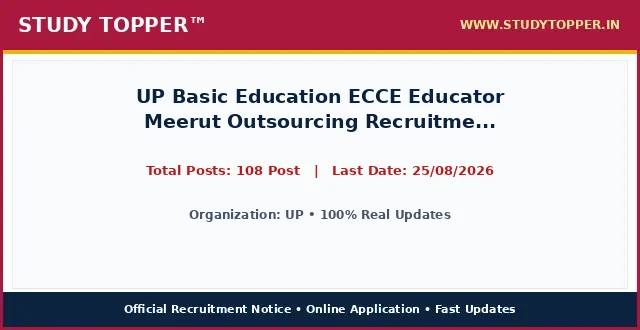
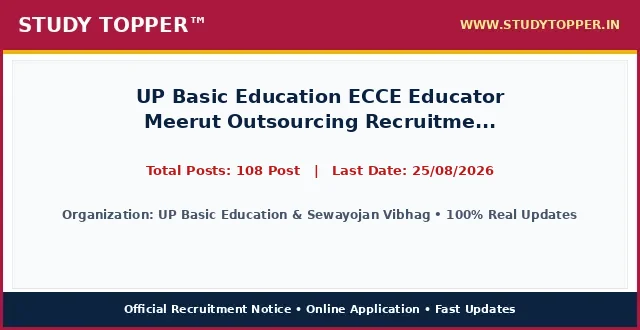
chore(lifecycle): daily auto-sort vacancies and update active dates

Changed region(s): [[0.0938, 0.6364, 0.9062, 0.6667]]

diff --git a/index.html b/index.html
@@ -1591,10 +1591,10 @@ ul.wp-block-latest-posts a:hover {
 <p class="gb-headline gb-headline-19f08da4 gb-headline-text" style="background-color:#0080ff !important; color:#ffffff !important; border-radius:5px !important; min-height:52px !important; height:52px !important; display:flex !important; align-items:center !important; justify-content:center !important; text-align:center !important; padding:4px 6px !important; margin:0 !important; box-sizing:border-box !important; overflow:hidden !important; width:100% !important;"><a href="/rcfl-management-trainee-august26/" rel="noreferrer noopener" style="color:#ffffff !important; text-decoration:none !important; font-weight:700 !important; font-size:13.5px !important; font-family:Arial,Helvetica,sans-serif !important; line-height:1.25 !important; display:flex !important; align-items:center !important; justify-content:center !important; text-align:center !important; width:100% !important; height:100% !important;" target="_blank">RCFL Management Trainee Recruitment 2026 Apply Online for 94 Post - <span class="agy-blinking-badge agy-urgent-blink">2 Days Left!</span></a></p>
 </div></div>
 <div class="gb-grid-column gb-grid-column-3b560729"><div class="gb-container gb-container-3b560729">
-<p class="gb-headline gb-headline-053dc0a0 gb-headline-text" style="background-color:#5f0000 !important; color:#ffffff !important; border-radius:5px !important; min-height:52px !important; height:52px !important; display:flex !important; align-items:center !important; justify-content:center !important; text-align:center !important; padding:4px 6px !important; margin:0 !important; box-sizing:border-box !important; overflow:hidden !important; width:100% !important;"><a href="/rvunl-june26/" rel="noreferrer noopener" style="color:#ffffff !important; text-decoration:none !important; font-weight:700 !important; font-size:13.5px !important; font-family:Arial,Helvetica,sans-serif !important; line-height:1.25 !important; display:flex !important; align-items:center !important; justify-content:center !important; text-align:center !important; width:100% !important; height:100% !important;" target="_blank">Rajasthan RVUNL for JE, Junior Accountant &amp; Junior Assistant/ Commercial Assistant-II Common Recruitment 2026 Apply Online for 2005 Post - <span class="agy-blinking-badge agy-urgent-blink">3 Days Left!</span></a></p>
+<p class="gb-headline gb-headline-053dc0a0 gb-headline-text" style="background-color:#5f0000 !important; color:#ffffff !important; border-radius:5px !important; min-height:52px !important; height:52px !important; display:flex !important; align-items:center !important; justify-content:center !important; text-align:center !important; padding:4px 6px !important; margin:0 !important; box-sizing:border-box !important; overflow:hidden !important; width:100% !important;"><a href="/up-meerut-ecce-educator-august26/" rel="noreferrer noopener" style="color:#ffffff !important; text-decoration:none !important; font-weight:700 !important; font-size:13.5px !important; font-family:Arial,Helvetica,sans-serif !important; line-height:1.25 !important; display:flex !important; align-items:center !important; justify-content:center !important; text-align:center !important; width:100% !important; height:100% !important;" target="_blank">UP Basic Education ECCE Educator Meerut Outsourcing Recruitment 2026 Apply Online For 108 Post - <span class="agy-blinking-badge agy-urgent-blink">3 Days Left!</span></a></p>
 </div></div>
 <div class="gb-grid-column gb-grid-column-659c2f86"><div class="gb-container gb-container-659c2f86">
-<p class="gb-headline gb-headline-d128e870 gb-headline-text" style="background-color:#077822 !important; color:#ffffff !important; border-radius:5px !important; min-height:52px !important; height:52px !important; display:flex !important; align-items:center !important; justify-content:center !important; text-align:center !important; padding:4px 6px !important; margin:0 !important; box-sizing:border-box !important; overflow:hidden !important; width:100% !important;"><a href="/rrvunl-je-junior-assistant-2026/" rel="noreferrer noopener" style="color:#ffffff !important; text-decoration:none !important; font-weight:700 !important; font-size:13.5px !important; font-family:Arial,Helvetica,sans-serif !important; line-height:1.25 !important; display:flex !important; align-items:center !important; justify-content:center !important; text-align:center !important; width:100% !important; height:100% !important;" target="_blank">RRVUNL JE, Junior Assistant Recruitment 2026 - <span class="agy-blinking-badge agy-urgent-blink">3 Days Left!</span></a></p>
+<p class="gb-headline gb-headline-d128e870 gb-headline-text" style="background-color:#077822 !important; color:#ffffff !important; border-radius:5px !important; min-height:52px !important; height:52px !important; display:flex !important; align-items:center !important; justify-content:center !important; text-align:center !important; padding:4px 6px !important; margin:0 !important; box-sizing:border-box !important; overflow:hidden !important; width:100% !important;"><a href="/rvunl-june26/" rel="noreferrer noopener" style="color:#ffffff !important; text-decoration:none !important; font-weight:700 !important; font-size:13.5px !important; font-family:Arial,Helvetica,sans-serif !important; line-height:1.25 !important; display:flex !important; align-items:center !important; justify-content:center !important; text-align:center !important; width:100% !important; height:100% !important;" target="_blank">Rajasthan RVUNL for JE, Junior Accountant &amp; Junior Assistant/ Commercial Assistant-II Common Recruitment 2026 Apply Online for 2005 Post - <span class="agy-blinking-badge agy-urgent-blink">3 Days Left!</span></a></p>
 </div></div>
 </div>
 </div>
@@ -1615,7 +1615,7 @@ ul.wp-block-latest-posts a:hover {
 </div></div></div>
 <div class="gb-grid-column gb-grid-column-c7488d9a"><div class="gb-container gb-container-c7488d9a"><div class="gb-inside-container">
 <p class="gb-headline gb-headline-5badebdf gb-headline-text" style="background-color:#ab183d !important; color:#ffffff !important; text-align:center; font-weight:700; padding:6px 0;">Latest Jobs</p>
-<ul class="wp-block-latest-posts__list 6colm_box wp-block-latest-posts"><li><a class="wp-block-latest-posts__post-title" href="/up-sewayojan-vibhag-mts-august26/">UP Sewayojan Vibhag Recruitment 2026 Multi Tasking Staff MTS Apply Online for 45 Post - <span class="agy-blinking-badge agy-urgent-blink">Last Date Today!</span></a></li><li><a class="wp-block-latest-posts__post-title" href="/mpesb-group-2-sub-group-4-patwari-2026/">MPESB Group-2 Sub Group-4 Patwari Recruitment 2026 - <span class="agy-blinking-badge agy-urgent-blink">1 Days Left!</span></a></li><li><a class="wp-block-latest-posts__post-title" href="/mpesb-group2-subgroup-4-aug26/">MPESB MP Group 2 Sub Group 4 Patwari and Other Post Combined Recruitment Test – 2026 Apply Online 2106 Post - <span class="agy-blinking-badge agy-urgent-blink">1 Days Left!</span></a></li><li><a class="wp-block-latest-posts__post-title" href="/atal-awasiya-lucknow-aug2026/">Uttar Pradesh UP Atal Awasiya Vidyalaya Lucknow Outsourcing Recruitment Application Form 2026 - <span class="agy-blinking-badge agy-urgent-blink">2 Days Left!</span></a></li><li><a class="wp-block-latest-posts__post-title" href="/upsssc-paramedical-fsl-15-exam-2026/">UPSSSC Forensic Science Laboratory Main Examination 2026 Apply Online for 208 Post - <span class="agy-blinking-badge agy-urgent-blink">2 Days Left!</span></a></li><li><a class="wp-block-latest-posts__post-title" href="/rcfl-management-trainee-august26/">RCFL Management Trainee Recruitment 2026 Apply Online for 94 Post - <span class="agy-blinking-badge agy-urgent-blink">2 Days Left!</span></a></li><li><a class="wp-block-latest-posts__post-title" href="/rvunl-june26/">Rajasthan RVUNL for JE, Junior Accountant &amp; Junior Assistant/ Commercial Assistant-II Common Recruitment 2026 Apply Online for 2005 Post - <span class="agy-blinking-badge agy-urgent-blink">3 Days Left!</span></a></li><li><a class="wp-block-latest-posts__post-title" href="/rrvunl-je-junior-assistant-2026/">RRVUNL JE, Junior Assistant Recruitment 2026 - <span class="agy-blinking-badge agy-urgent-blink">3 Days Left!</span></a></li><li><a class="wp-block-latest-posts__post-title" href="/up-meerut-ecce-educator-august26/">UP Basic Education ECCE Educator Meerut Outsourcing Recruitment 2026 Apply Online For 108 Post - <span class="agy-blinking-badge agy-urgent-blink">3 Days Left!</span></a></li><li><a class="wp-block-latest-posts__post-title" href="/up-bijnor-ecce-educator-july26/">Uttar Pradesh UP Basic Education Bijnor ECCE Educator Outsourcing Recruitment 2026 Apply Online For 159 Post - <span class="agy-blinking-badge agy-extended-blink">Date Extended!</span></a></li><li><a class="wp-block-latest-posts__post-title" href="/upsrtc-bus-conductor-august26/">UPSRTC उत्तर प्रदेश राज्य सड़क परिवहन निगम Bus Conductor Gonda, Bahraich, Balrampur Outsourcing Recruitment Online Form 2026</a></li><li><a class="wp-block-latest-posts__post-title" href="/hphc-various-post-august26/">Himachal Pradesh HP High Court Various Post Recruitment 2026 Apply Online for 388 Post</a></li></ul>
+<ul class="wp-block-latest-posts__list 6colm_box wp-block-latest-posts"><li><a class="wp-block-latest-posts__post-title" href="/up-sewayojan-vibhag-mts-august26/">UP Sewayojan Vibhag Recruitment 2026 Multi Tasking Staff MTS Apply Online for 45 Post - <span class="agy-blinking-badge agy-urgent-blink">Last Date Today!</span></a></li><li><a class="wp-block-latest-posts__post-title" href="/mpesb-group-2-sub-group-4-patwari-2026/">MPESB Group-2 Sub Group-4 Patwari Recruitment 2026 - <span class="agy-blinking-badge agy-urgent-blink">1 Days Left!</span></a></li><li><a class="wp-block-latest-posts__post-title" href="/mpesb-group2-subgroup-4-aug26/">MPESB MP Group 2 Sub Group 4 Patwari and Other Post Combined Recruitment Test – 2026 Apply Online 2106 Post - <span class="agy-blinking-badge agy-urgent-blink">1 Days Left!</span></a></li><li><a class="wp-block-latest-posts__post-title" href="/atal-awasiya-lucknow-aug2026/">Uttar Pradesh UP Atal Awasiya Vidyalaya Lucknow Outsourcing Recruitment Application Form 2026 - <span class="agy-blinking-badge agy-urgent-blink">2 Days Left!</span></a></li><li><a class="wp-block-latest-posts__post-title" href="/upsssc-paramedical-fsl-15-exam-2026/">UPSSSC Forensic Science Laboratory Main Examination 2026 Apply Online for 208 Post - <span class="agy-blinking-badge agy-urgent-blink">2 Days Left!</span></a></li><li><a class="wp-block-latest-posts__post-title" href="/rcfl-management-trainee-august26/">RCFL Management Trainee Recruitment 2026 Apply Online for 94 Post - <span class="agy-blinking-badge agy-urgent-blink">2 Days Left!</span></a></li><li><a class="wp-block-latest-posts__post-title" href="/up-meerut-ecce-educator-august26/">UP Basic Education ECCE Educator Meerut Outsourcing Recruitment 2026 Apply Online For 108 Post - <span class="agy-blinking-badge agy-urgent-blink">3 Days Left!</span></a></li><li><a class="wp-block-latest-posts__post-title" href="/rvunl-june26/">Rajasthan RVUNL for JE, Junior Accountant &amp; Junior Assistant/ Commercial Assistant-II Common Recruitment 2026 Apply Online for 2005 Post - <span class="agy-blinking-badge agy-urgent-blink">3 Days Left!</span></a></li><li><a class="wp-block-latest-posts__post-title" href="/rrvunl-je-junior-assistant-2026/">RRVUNL JE, Junior Assistant Recruitment 2026 - <span class="agy-blinking-badge agy-urgent-blink">3 Days Left!</span></a></li><li><a class="wp-block-latest-posts__post-title" href="/up-bijnor-ecce-educator-july26/">Uttar Pradesh UP Basic Education Bijnor ECCE Educator Outsourcing Recruitment 2026 Apply Online For 159 Post - <span class="agy-blinking-badge agy-extended-blink">Date Extended!</span></a></li><li><a class="wp-block-latest-posts__post-title" href="/upsrtc-bus-conductor-august26/">UPSRTC उत्तर प्रदेश राज्य सड़क परिवहन निगम Bus Conductor Gonda, Bahraich, Balrampur Outsourcing Recruitment Online Form 2026</a></li><li><a class="wp-block-latest-posts__post-title" href="/hphc-various-post-august26/">Himachal Pradesh HP High Court Various Post Recruitment 2026 Apply Online for 388 Post</a></li></ul>
 <div class="wp-block-buttons is-content-justification-right is-layout-flex wp-container-core-buttons-is-layout-89b4c9e9 wp-block-buttons-is-layout-flex">
 <div class="wp-block-button"><a class="wp-block-button__link has-base-color has-accent-2-background-color has-text-color has-background has-link-color wp-element-button" href="/latest-jobs/" rel="noreferrer noopener" target="_blank"><strong>View More</strong></a></div>
 </div>

diff --git a/pages/index.html b/pages/index.html
@@ -1591,10 +1591,10 @@ ul.wp-block-latest-posts a:hover {
 <p class="gb-headline gb-headline-19f08da4 gb-headline-text" style="background-color:#0080ff !important; color:#ffffff !important; border-radius:5px !important; min-height:52px !important; height:52px !important; display:flex !important; align-items:center !important; justify-content:center !important; text-align:center !important; padding:4px 6px !important; margin:0 !important; box-sizing:border-box !important; overflow:hidden !important; width:100% !important;"><a href="/rcfl-management-trainee-august26/" rel="noreferrer noopener" style="color:#ffffff !important; text-decoration:none !important; font-weight:700 !important; font-size:13.5px !important; font-family:Arial,Helvetica,sans-serif !important; line-height:1.25 !important; display:flex !important; align-items:center !important; justify-content:center !important; text-align:center !important; width:100% !important; height:100% !important;" target="_blank">RCFL Management Trainee Recruitment 2026 Apply Online for 94 Post - <span class="agy-blinking-badge agy-urgent-blink">2 Days Left!</span></a></p>
 </div></div>
 <div class="gb-grid-column gb-grid-column-3b560729"><div class="gb-container gb-container-3b560729">
-<p class="gb-headline gb-headline-053dc0a0 gb-headline-text" style="background-color:#5f0000 !important; color:#ffffff !important; border-radius:5px !important; min-height:52px !important; height:52px !important; display:flex !important; align-items:center !important; justify-content:center !important; text-align:center !important; padding:4px 6px !important; margin:0 !important; box-sizing:border-box !important; overflow:hidden !important; width:100% !important;"><a href="/rvunl-june26/" rel="noreferrer noopener" style="color:#ffffff !important; text-decoration:none !important; font-weight:700 !important; font-size:13.5px !important; font-family:Arial,Helvetica,sans-serif !important; line-height:1.25 !important; display:flex !important; align-items:center !important; justify-content:center !important; text-align:center !important; width:100% !important; height:100% !important;" target="_blank">Rajasthan RVUNL for JE, Junior Accountant &amp; Junior Assistant/ Commercial Assistant-II Common Recruitment 2026 Apply Online for 2005 Post - <span class="agy-blinking-badge agy-urgent-blink">3 Days Left!</span></a></p>
+<p class="gb-headline gb-headline-053dc0a0 gb-headline-text" style="background-color:#5f0000 !important; color:#ffffff !important; border-radius:5px !important; min-height:52px !important; height:52px !important; display:flex !important; align-items:center !important; justify-content:center !important; text-align:center !important; padding:4px 6px !important; margin:0 !important; box-sizing:border-box !important; overflow:hidden !important; width:100% !important;"><a href="/up-meerut-ecce-educator-august26/" rel="noreferrer noopener" style="color:#ffffff !important; text-decoration:none !important; font-weight:700 !important; font-size:13.5px !important; font-family:Arial,Helvetica,sans-serif !important; line-height:1.25 !important; display:flex !important; align-items:center !important; justify-content:center !important; text-align:center !important; width:100% !important; height:100% !important;" target="_blank">UP Basic Education ECCE Educator Meerut Outsourcing Recruitment 2026 Apply Online For 108 Post - <span class="agy-blinking-badge agy-urgent-blink">3 Days Left!</span></a></p>
 </div></div>
 <div class="gb-grid-column gb-grid-column-659c2f86"><div class="gb-container gb-container-659c2f86">
-<p class="gb-headline gb-headline-d128e870 gb-headline-text" style="background-color:#077822 !important; color:#ffffff !important; border-radius:5px !important; min-height:52px !important; height:52px !important; display:flex !important; align-items:center !important; justify-content:center !important; text-align:center !important; padding:4px 6px !important; margin:0 !important; box-sizing:border-box !important; overflow:hidden !important; width:100% !important;"><a href="/rrvunl-je-junior-assistant-2026/" rel="noreferrer noopener" style="color:#ffffff !important; text-decoration:none !important; font-weight:700 !important; font-size:13.5px !important; font-family:Arial,Helvetica,sans-serif !important; line-height:1.25 !important; display:flex !important; align-items:center !important; justify-content:center !important; text-align:center !important; width:100% !important; height:100% !important;" target="_blank">RRVUNL JE, Junior Assistant Recruitment 2026 - <span class="agy-blinking-badge agy-urgent-blink">3 Days Left!</span></a></p>
+<p class="gb-headline gb-headline-d128e870 gb-headline-text" style="background-color:#077822 !important; color:#ffffff !important; border-radius:5px !important; min-height:52px !important; height:52px !important; display:flex !important; align-items:center !important; justify-content:center !important; text-align:center !important; padding:4px 6px !important; margin:0 !important; box-sizing:border-box !important; overflow:hidden !important; width:100% !important;"><a href="/rvunl-june26/" rel="noreferrer noopener" style="color:#ffffff !important; text-decoration:none !important; font-weight:700 !important; font-size:13.5px !important; font-family:Arial,Helvetica,sans-serif !important; line-height:1.25 !important; display:flex !important; align-items:center !important; justify-content:center !important; text-align:center !important; width:100% !important; height:100% !important;" target="_blank">Rajasthan RVUNL for JE, Junior Accountant &amp; Junior Assistant/ Commercial Assistant-II Common Recruitment 2026 Apply Online for 2005 Post - <span class="agy-blinking-badge agy-urgent-blink">3 Days Left!</span></a></p>
 </div></div>
 </div>
 </div>
@@ -1615,7 +1615,7 @@ ul.wp-block-latest-posts a:hover {
 </div></div></div>
 <div class="gb-grid-column gb-grid-column-c7488d9a"><div class="gb-container gb-container-c7488d9a"><div class="gb-inside-container">
 <p class="gb-headline gb-headline-5badebdf gb-headline-text" style="background-color:#ab183d !important; color:#ffffff !important; text-align:center; font-weight:700; padding:6px 0;">Latest Jobs</p>
-<ul class="wp-block-latest-posts__list 6colm_box wp-block-latest-posts"><li><a class="wp-block-latest-posts__post-title" href="/up-sewayojan-vibhag-mts-august26/">UP Sewayojan Vibhag Recruitment 2026 Multi Tasking Staff MTS Apply Online for 45 Post - <span class="agy-blinking-badge agy-urgent-blink">Last Date Today!</span></a></li><li><a class="wp-block-latest-posts__post-title" href="/mpesb-group-2-sub-group-4-patwari-2026/">MPESB Group-2 Sub Group-4 Patwari Recruitment 2026 - <span class="agy-blinking-badge agy-urgent-blink">1 Days Left!</span></a></li><li><a class="wp-block-latest-posts__post-title" href="/mpesb-group2-subgroup-4-aug26/">MPESB MP Group 2 Sub Group 4 Patwari and Other Post Combined Recruitment Test – 2026 Apply Online 2106 Post - <span class="agy-blinking-badge agy-urgent-blink">1 Days Left!</span></a></li><li><a class="wp-block-latest-posts__post-title" href="/atal-awasiya-lucknow-aug2026/">Uttar Pradesh UP Atal Awasiya Vidyalaya Lucknow Outsourcing Recruitment Application Form 2026 - <span class="agy-blinking-badge agy-urgent-blink">2 Days Left!</span></a></li><li><a class="wp-block-latest-posts__post-title" href="/upsssc-paramedical-fsl-15-exam-2026/">UPSSSC Forensic Science Laboratory Main Examination 2026 Apply Online for 208 Post - <span class="agy-blinking-badge agy-urgent-blink">2 Days Left!</span></a></li><li><a class="wp-block-latest-posts__post-title" href="/rcfl-management-trainee-august26/">RCFL Management Trainee Recruitment 2026 Apply Online for 94 Post - <span class="agy-blinking-badge agy-urgent-blink">2 Days Left!</span></a></li><li><a class="wp-block-latest-posts__post-title" href="/rvunl-june26/">Rajasthan RVUNL for JE, Junior Accountant &amp; Junior Assistant/ Commercial Assistant-II Common Recruitment 2026 Apply Online for 2005 Post - <span class="agy-blinking-badge agy-urgent-blink">3 Days Left!</span></a></li><li><a class="wp-block-latest-posts__post-title" href="/rrvunl-je-junior-assistant-2026/">RRVUNL JE, Junior Assistant Recruitment 2026 - <span class="agy-blinking-badge agy-urgent-blink">3 Days Left!</span></a></li><li><a class="wp-block-latest-posts__post-title" href="/up-meerut-ecce-educator-august26/">UP Basic Education ECCE Educator Meerut Outsourcing Recruitment 2026 Apply Online For 108 Post - <span class="agy-blinking-badge agy-urgent-blink">3 Days Left!</span></a></li><li><a class="wp-block-latest-posts__post-title" href="/up-bijnor-ecce-educator-july26/">Uttar Pradesh UP Basic Education Bijnor ECCE Educator Outsourcing Recruitment 2026 Apply Online For 159 Post - <span class="agy-blinking-badge agy-extended-blink">Date Extended!</span></a></li><li><a class="wp-block-latest-posts__post-title" href="/upsrtc-bus-conductor-august26/">UPSRTC उत्तर प्रदेश राज्य सड़क परिवहन निगम Bus Conductor Gonda, Bahraich, Balrampur Outsourcing Recruitment Online Form 2026</a></li><li><a class="wp-block-latest-posts__post-title" href="/hphc-various-post-august26/">Himachal Pradesh HP High Court Various Post Recruitment 2026 Apply Online for 388 Post</a></li></ul>
+<ul class="wp-block-latest-posts__list 6colm_box wp-block-latest-posts"><li><a class="wp-block-latest-posts__post-title" href="/up-sewayojan-vibhag-mts-august26/">UP Sewayojan Vibhag Recruitment 2026 Multi Tasking Staff MTS Apply Online for 45 Post - <span class="agy-blinking-badge agy-urgent-blink">Last Date Today!</span></a></li><li><a class="wp-block-latest-posts__post-title" href="/mpesb-group-2-sub-group-4-patwari-2026/">MPESB Group-2 Sub Group-4 Patwari Recruitment 2026 - <span class="agy-blinking-badge agy-urgent-blink">1 Days Left!</span></a></li><li><a class="wp-block-latest-posts__post-title" href="/mpesb-group2-subgroup-4-aug26/">MPESB MP Group 2 Sub Group 4 Patwari and Other Post Combined Recruitment Test – 2026 Apply Online 2106 Post - <span class="agy-blinking-badge agy-urgent-blink">1 Days Left!</span></a></li><li><a class="wp-block-latest-posts__post-title" href="/atal-awasiya-lucknow-aug2026/">Uttar Pradesh UP Atal Awasiya Vidyalaya Lucknow Outsourcing Recruitment Application Form 2026 - <span class="agy-blinking-badge agy-urgent-blink">2 Days Left!</span></a></li><li><a class="wp-block-latest-posts__post-title" href="/upsssc-paramedical-fsl-15-exam-2026/">UPSSSC Forensic Science Laboratory Main Examination 2026 Apply Online for 208 Post - <span class="agy-blinking-badge agy-urgent-blink">2 Days Left!</span></a></li><li><a class="wp-block-latest-posts__post-title" href="/rcfl-management-trainee-august26/">RCFL Management Trainee Recruitment 2026 Apply Online for 94 Post - <span class="agy-blinking-badge agy-urgent-blink">2 Days Left!</span></a></li><li><a class="wp-block-latest-posts__post-title" href="/up-meerut-ecce-educator-august26/">UP Basic Education ECCE Educator Meerut Outsourcing Recruitment 2026 Apply Online For 108 Post - <span class="agy-blinking-badge agy-urgent-blink">3 Days Left!</span></a></li><li><a class="wp-block-latest-posts__post-title" href="/rvunl-june26/">Rajasthan RVUNL for JE, Junior Accountant &amp; Junior Assistant/ Commercial Assistant-II Common Recruitment 2026 Apply Online for 2005 Post - <span class="agy-blinking-badge agy-urgent-blink">3 Days Left!</span></a></li><li><a class="wp-block-latest-posts__post-title" href="/rrvunl-je-junior-assistant-2026/">RRVUNL JE, Junior Assistant Recruitment 2026 - <span class="agy-blinking-badge agy-urgent-blink">3 Days Left!</span></a></li><li><a class="wp-block-latest-posts__post-title" href="/up-bijnor-ecce-educator-july26/">Uttar Pradesh UP Basic Education Bijnor ECCE Educator Outsourcing Recruitment 2026 Apply Online For 159 Post - <span class="agy-blinking-badge agy-extended-blink">Date Extended!</span></a></li><li><a class="wp-block-latest-posts__post-title" href="/upsrtc-bus-conductor-august26/">UPSRTC उत्तर प्रदेश राज्य सड़क परिवहन निगम Bus Conductor Gonda, Bahraich, Balrampur Outsourcing Recruitment Online Form 2026</a></li><li><a class="wp-block-latest-posts__post-title" href="/hphc-various-post-august26/">Himachal Pradesh HP High Court Various Post Recruitment 2026 Apply Online for 388 Post</a></li></ul>
 <div class="wp-block-buttons is-content-justification-right is-layout-flex wp-container-core-buttons-is-layout-89b4c9e9 wp-block-buttons-is-layout-flex">
 <div class="wp-block-button"><a class="wp-block-button__link has-base-color has-accent-2-background-color has-text-color has-background has-link-color wp-element-button" href="/latest-jobs/" rel="noreferrer noopener" target="_blank"><strong>View More</strong></a></div>
 </div>

diff --git a/original_index.html b/original_index.html
@@ -1053,10 +1053,10 @@ ul.wp-block-latest-posts a:hover {
 <p class="gb-headline gb-headline-19f08da4 gb-headline-text"><a href="/rcfl-management-trainee-august26/" rel="noreferrer noopener" target="_blank">RCFL Management Trainee Recruitment 2026 Apply Online for 94 Post - <span class="agy-blinking-badge agy-urgent-blink">2 Days Left!</span></a></p>
 </div></div>
 <div class="gb-grid-column gb-grid-column-3b560729"><div class="gb-container gb-container-3b560729">
-<p class="gb-headline gb-headline-053dc0a0 gb-headline-text"><a href="/rvunl-june26/" rel="noreferrer noopener" target="_blank">Rajasthan RVUNL for JE, Junior Accountant &amp; Junior Assistant/ Commercial Assistant-II Common Recruitment 2026 Apply Online for 2005 Post - <span class="agy-blinking-badge agy-urgent-blink">3 Days Left!</span></a></p>
+<p class="gb-headline gb-headline-053dc0a0 gb-headline-text"><a href="/up-meerut-ecce-educator-august26/" rel="noreferrer noopener" target="_blank">UP Basic Education ECCE Educator Meerut Outsourcing Recruitment 2026 Apply Online For 108 Post - <span class="agy-blinking-badge agy-urgent-blink">3 Days Left!</span></a></p>
 </div></div>
 <div class="gb-grid-column gb-grid-column-659c2f86"><div class="gb-container gb-container-659c2f86">
-<p class="gb-headline gb-headline-d128e870 gb-headline-text"><a href="/rrvunl-je-junior-assistant-2026/" rel="noreferrer noopener" target="_blank">RRVUNL JE, Junior Assistant Recruitment 2026 - <span class="agy-blinking-badge agy-urgent-blink">3 Days Left!</span></a></p>
+<p class="gb-headline gb-headline-d128e870 gb-headline-text"><a href="/rvunl-june26/" rel="noreferrer noopener" target="_blank">Rajasthan RVUNL for JE, Junior Accountant &amp; Junior Assistant/ Commercial Assistant-II Common Recruitment 2026 Apply Online for 2005 Post - <span class="agy-blinking-badge agy-urgent-blink">3 Days Left!</span></a></p>
 </div></div>
 </div>
 <!-- SarkariResult -->
@@ -1078,7 +1078,7 @@ ul.wp-block-latest-posts a:hover {
 </div></div></div>
 <div class="gb-grid-column gb-grid-column-c7488d9a"><div class="gb-container gb-container-c7488d9a"><div class="gb-inside-container">
 <p class="gb-headline gb-headline-5badebdf gb-headline-text">Latest Jobs</p>
-<ul class="wp-block-latest-posts__list 6colm_box wp-block-latest-posts"><li><a class="wp-block-latest-posts__post-title" href="/up-sewayojan-vibhag-mts-august26/">UP Sewayojan Vibhag Recruitment 2026 Multi Tasking Staff MTS Apply Online for 45 Post - <span class="agy-blinking-badge agy-urgent-blink">Last Date Today!</span></a></li><li><a class="wp-block-latest-posts__post-title" href="/mpesb-group-2-sub-group-4-patwari-2026/">MPESB Group-2 Sub Group-4 Patwari Recruitment 2026 - <span class="agy-blinking-badge agy-urgent-blink">1 Days Left!</span></a></li><li><a class="wp-block-latest-posts__post-title" href="/mpesb-group2-subgroup-4-aug26/">MPESB MP Group 2 Sub Group 4 Patwari and Other Post Combined Recruitment Test – 2026 Apply Online 2106 Post - <span class="agy-blinking-badge agy-urgent-blink">1 Days Left!</span></a></li><li><a class="wp-block-latest-posts__post-title" href="/atal-awasiya-lucknow-aug2026/">Uttar Pradesh UP Atal Awasiya Vidyalaya Lucknow Outsourcing Recruitment Application Form 2026 - <span class="agy-blinking-badge agy-urgent-blink">2 Days Left!</span></a></li><li><a class="wp-block-latest-posts__post-title" href="/upsssc-paramedical-fsl-15-exam-2026/">UPSSSC Forensic Science Laboratory Main Examination 2026 Apply Online for 208 Post - <span class="agy-blinking-badge agy-urgent-blink">2 Days Left!</span></a></li><li><a class="wp-block-latest-posts__post-title" href="/rcfl-management-trainee-august26/">RCFL Management Trainee Recruitment 2026 Apply Online for 94 Post - <span class="agy-blinking-badge agy-urgent-blink">2 Days Left!</span></a></li><li><a class="wp-block-latest-posts__post-title" href="/rvunl-june26/">Rajasthan RVUNL for JE, Junior Accountant &amp; Junior Assistant/ Commercial Assistant-II Common Recruitment 2026 Apply Online for 2005 Post - <span class="agy-blinking-badge agy-urgent-blink">3 Days Left!</span></a></li><li><a class="wp-block-latest-posts__post-title" href="/rrvunl-je-junior-assistant-2026/">RRVUNL JE, Junior Assistant Recruitment 2026 - <span class="agy-blinking-badge agy-urgent-blink">3 Days Left!</span></a></li><li><a class="wp-block-latest-posts__post-title" href="/up-meerut-ecce-educator-august26/">UP Basic Education ECCE Educator Meerut Outsourcing Recruitment 2026 Apply Online For 108 Post - <span class="agy-blinking-badge agy-urgent-blink">3 Days Left!</span></a></li><li><a class="wp-block-latest-posts__post-title" href="/up-bijnor-ecce-educator-july26/">Uttar Pradesh UP Basic Education Bijnor ECCE Educator Outsourcing Recruitment 2026 Apply Online For 159 Post - <span class="agy-blinking-badge agy-extended-blink">Date Extended!</span></a></li><li><a class="wp-block-latest-posts__post-title" href="/upsrtc-bus-conductor-august26/">UPSRTC उत्तर प्रदेश राज्य सड़क परिवहन निगम Bus Conductor Gonda, Bahraich, Balrampur Outsourcing Recruitment Online Form 2026</a></li><li><a class="wp-block-latest-posts__post-title" href="/hphc-various-post-august26/">Himachal Pradesh HP High Court Various Post Recruitment 2026 Apply Online for 388 Post</a></li></ul>
+<ul class="wp-block-latest-posts__list 6colm_box wp-block-latest-posts"><li><a class="wp-block-latest-posts__post-title" href="/up-sewayojan-vibhag-mts-august26/">UP Sewayojan Vibhag Recruitment 2026 Multi Tasking Staff MTS Apply Online for 45 Post - <span class="agy-blinking-badge agy-urgent-blink">Last Date Today!</span></a></li><li><a class="wp-block-latest-posts__post-title" href="/mpesb-group-2-sub-group-4-patwari-2026/">MPESB Group-2 Sub Group-4 Patwari Recruitment 2026 - <span class="agy-blinking-badge agy-urgent-blink">1 Days Left!</span></a></li><li><a class="wp-block-latest-posts__post-title" href="/mpesb-group2-subgroup-4-aug26/">MPESB MP Group 2 Sub Group 4 Patwari and Other Post Combined Recruitment Test – 2026 Apply Online 2106 Post - <span class="agy-blinking-badge agy-urgent-blink">1 Days Left!</span></a></li><li><a class="wp-block-latest-posts__post-title" href="/atal-awasiya-lucknow-aug2026/">Uttar Pradesh UP Atal Awasiya Vidyalaya Lucknow Outsourcing Recruitment Application Form 2026 - <span class="agy-blinking-badge agy-urgent-blink">2 Days Left!</span></a></li><li><a class="wp-block-latest-posts__post-title" href="/upsssc-paramedical-fsl-15-exam-2026/">UPSSSC Forensic Science Laboratory Main Examination 2026 Apply Online for 208 Post - <span class="agy-blinking-badge agy-urgent-blink">2 Days Left!</span></a></li><li><a class="wp-block-latest-posts__post-title" href="/rcfl-management-trainee-august26/">RCFL Management Trainee Recruitment 2026 Apply Online for 94 Post - <span class="agy-blinking-badge agy-urgent-blink">2 Days Left!</span></a></li><li><a class="wp-block-latest-posts__post-title" href="/up-meerut-ecce-educator-august26/">UP Basic Education ECCE Educator Meerut Outsourcing Recruitment 2026 Apply Online For 108 Post - <span class="agy-blinking-badge agy-urgent-blink">3 Days Left!</span></a></li><li><a class="wp-block-latest-posts__post-title" href="/rvunl-june26/">Rajasthan RVUNL for JE, Junior Accountant &amp; Junior Assistant/ Commercial Assistant-II Common Recruitment 2026 Apply Online for 2005 Post - <span class="agy-blinking-badge agy-urgent-blink">3 Days Left!</span></a></li><li><a class="wp-block-latest-posts__post-title" href="/rrvunl-je-junior-assistant-2026/">RRVUNL JE, Junior Assistant Recruitment 2026 - <span class="agy-blinking-badge agy-urgent-blink">3 Days Left!</span></a></li><li><a class="wp-block-latest-posts__post-title" href="/up-bijnor-ecce-educator-july26/">Uttar Pradesh UP Basic Education Bijnor ECCE Educator Outsourcing Recruitment 2026 Apply Online For 159 Post - <span class="agy-blinking-badge agy-extended-blink">Date Extended!</span></a></li><li><a class="wp-block-latest-posts__post-title" href="/upsrtc-bus-conductor-august26/">UPSRTC उत्तर प्रदेश राज्य सड़क परिवहन निगम Bus Conductor Gonda, Bahraich, Balrampur Outsourcing Recruitment Online Form 2026</a></li><li><a class="wp-block-latest-posts__post-title" href="/hphc-various-post-august26/">Himachal Pradesh HP High Court Various Post Recruitment 2026 Apply Online for 388 Post</a></li></ul>
 <div class="wp-block-buttons is-content-justification-right is-layout-flex wp-container-core-buttons-is-layout-89b4c9e9 wp-block-buttons-is-layout-flex">
 <div class="wp-block-button"><a class="wp-block-button__link has-base-color has-accent-2-background-color has-text-color has-background has-link-color wp-element-button" href="/latest-jobs/" rel="noreferrer noopener" target="_blank"><strong>View More</strong></a></div>
 </div>

diff --git a/pages/up-meerut-ecce-educator-august26.html b/pages/up-meerut-ecce-educator-august26.html
@@ -987,8 +987,8 @@ ul.wp-block-latest-posts a:hover {
 <main class="site-main" id="main">
 <div class="gb-container gb-container-b39c368c">
 <h1 class="gb-headline gb-headline-e52a0102 gb-headline-text" style="font-size: 22px; font-weight: 700; color: #0000cd; text-align: left; margin: 8px 0 4px 0; line-height: 1.3; width: 100%; font-family: '-apple-system, BlinkMacSystemFont, 'Segoe UI', Roboto, 'Helvetica Neue', Arial, sans-serif', Times, serif, Hind, sans-serif;">UP Basic Education ECCE Educator Meerut Outsourcing Recruitment 2026 Apply Online For 108 Post</h1>
-<div class="gb-container gb-container-659bd175"><p style="color: #cd0808; font-weight: 700; font-size: 15px; margin: 2px 0 7px 0; text-align: left; font-family: '-apple-system, BlinkMacSystemFont, 'Segoe UI', Roboto, 'Helvetica Neue', Arial, sans-serif', Times, serif, Hind, sans-serif;">Post Date: August 22, 2026 12:36 PM</p></div>
-<p class="gb-headline gb-headline-550ae316 short_Details gb-headline-text" style="width: 100%; max-width: 100%; font-size: 16.8px; line-height: 1.55; color: #000000; text-align: justify; text-justify: inter-word; margin: 8px 0 14px 0; display: block; font-family: '-apple-system, BlinkMacSystemFont, 'Segoe UI', Roboto, 'Helvetica Neue', Arial, sans-serif', Times, serif, Hind, sans-serif;"><strong style="color: #0000cd;">UP Basic Education & Sewayojan Vibhag</strong> has officially published the recruitment notice <strong style="color: #cd0808;">UP Basic Education ECCE Educator Meerut Outsourcing Recruitment 2026 Apply Online For 108 Post</strong> under notification number 2026. Online applications are invited for 108 Post across multiple departments and cadre positions. Interested candidates possessing the requisite educational qualifications and falling between 18 Years to 40 Years can complete their online registration before the application deadline of 25/08/2026. Applicants should read the eligibility criteria, category reservation rules, and exam scheme thoroughly before submitting applications.</p>
+<div class="gb-container gb-container-659bd175"><p style="color: #cd0808; font-weight: 700; font-size: 15px; margin: 2px 0 7px 0; text-align: left; font-family: '-apple-system, BlinkMacSystemFont, 'Segoe UI', Roboto, 'Helvetica Neue', Arial, sans-serif', Times, serif, Hind, sans-serif;">Post Date: August 22, 2026 12:46 PM</p></div>
+<p class="gb-headline gb-headline-550ae316 short_Details gb-headline-text" style="width: 100%; max-width: 100%; font-size: 16.8px; line-height: 1.55; color: #000000; text-align: justify; text-justify: inter-word; margin: 8px 0 14px 0; display: block; font-family: '-apple-system, BlinkMacSystemFont, 'Segoe UI', Roboto, 'Helvetica Neue', Arial, sans-serif', Times, serif, Hind, sans-serif;"><strong style="color: #0000cd;">UP Basic Education & Sewayojan Vibhag</strong> has officially published the recruitment notice <strong style="color: #cd0808;">UP Basic Education ECCE Educator Meerut Outsourcing Recruitment 2026 Apply Online For 108 Post</strong> under notification number Official Notification 2026. Online applications are invited for 108 Post across multiple departments and cadre positions. Interested candidates possessing the requisite educational qualifications and falling between 18 Years to 40 Years can complete their online registration before the application deadline of 25/08/2026. Applicants should read the eligibility criteria, category reservation rules, and exam scheme thoroughly before submitting applications.</p>
 <div class="gb-container gb-container-9849916c"><div class="social-buttons-compact" style="display: flex; justify-content: flex-start; align-items: center; gap: 10px; margin: 10px 0 16px 0; width: 100%;"><a class="social-btn-compact wa" href="https://whatsapp.com/channel/0029Va9xyz" rel="noopener" style="background-color: #00d084; color: #ffffff; padding: 10px 18px; border-radius: 4px; text-decoration: none; font-weight: bold; font-size: 15.5px; display: inline-flex; align-items: center; justify-content: center; height: auto;" target="_blank">WhatsApp</a><a class="social-btn-compact tg" href="https://t.me/studytopperofficial" rel="noopener" style="background-color: #0088cc; color: #ffffff; padding: 10px 18px; border-radius: 4px; text-decoration: none; font-weight: bold; font-size: 15.5px; display: inline-flex; align-items: center; justify-content: center; height: auto;" target="_blank">Telegram</a></div></div>
 <div class="gb-container gb-container-f58e6ca1" style="border: 2px solid #5b032f; border-radius: 4px; overflow: hidden; margin: 15px 0 20px 0; background-color: #ffffff; width: 100%; box-sizing: border-box;">
 <h2 class="gb-headline gb-headline-2ca5a791 gb-headline-text" style="font-size: 16px; font-weight: 700; text-align: center; color: #ef0303; line-height: 1.3; padding: 6px 4px; margin: 0; background: #ffffff; font-family: '-apple-system, BlinkMacSystemFont, 'Segoe UI', Roboto, 'Helvetica Neue', Arial, sans-serif', Times, serif, Hind, sans-serif;">UP Basic Education ECCE Educator Meerut Outsourcing Recruitment 2026 Apply Online For 108 Post &ndash; Latest Details &amp; Updates</h2>
